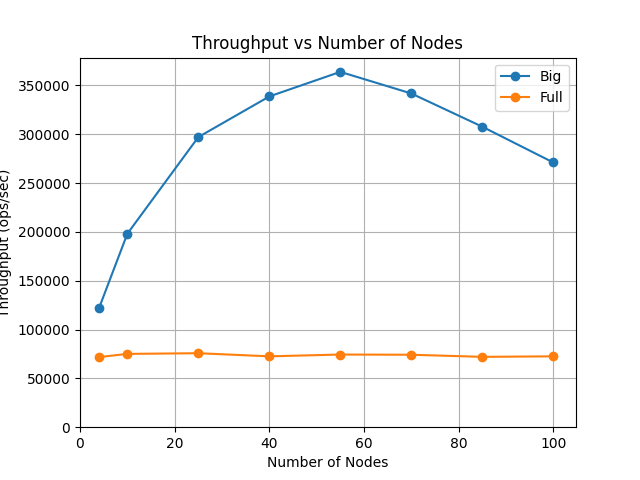
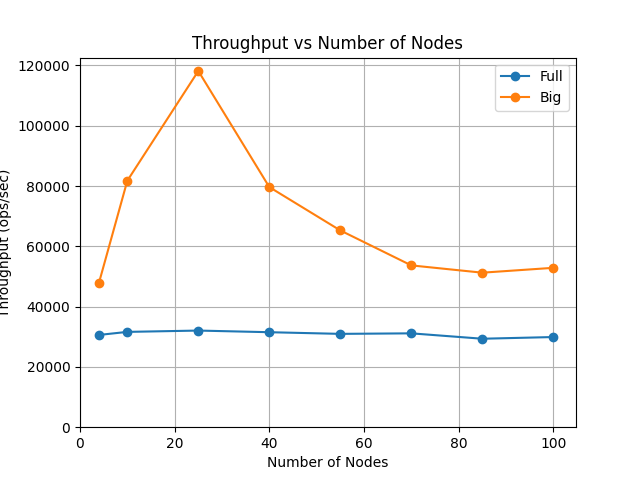
fix: tune performance

diff --git a/src/tasks/client.rs b/src/tasks/client.rs
@@ -327,57 +327,60 @@ impl ClientNodeTask {
         debug!("loading client node task");
         let scrape_state = Arc::new(Mutex::new(ClientScrapeState::now()));
 
-        let mut endpoint = Endpoint::client(([0, 0, 0, 0], 0).into())?;
         let mut transport_config = TransportConfig::default();
         transport_config.keep_alive_interval(Duration::from_secs(10).into());
         let mut config = client_config();
         config.transport_config(transport_config.into());
-        endpoint.set_default_client_config(config);
 
-        let mut tasks = JoinSet::new();
-        for _ in 0..schema.workload_config.num_concurrent {
-            let schema = schema.clone();
-            let scrape_state = scrape_state.clone();
-            let endpoint = endpoint.clone();
-            tasks.spawn(async move {
-                let client_channels = ClientChannels::new();
-                let client_worker_channels = ClientWorkerChannels::new();
-
-                let client_id = rand::random();
-
-                let network_connect = NetworkConnectTask::load(
-                    endpoint,
-                    client_channels.handle(),
-                    &schema,
-                    client_id,
-                )
-                .await?;
-                debug!("[{:08x}] network connect loaded", client_id);
-                let client = ClientTask::load(
-                    client_channels,
-                    network_connect.handle(),
-                    &schema,
-                    client_id,
-                )
-                .await?;
-                debug!("[{:08x}] client loaded", client_id);
-                let client_worker = ClientWorkerTask::load(
-                    client_worker_channels,
-                    client.channels.handle(),
-                    scrape_state.clone(),
-                    &schema,
-                )?;
-                debug!("[{:08x}] client worker loaded", client_id);
-                anyhow::Ok(WorkloadClientTask {
-                    network_connect,
-                    client,
-                    client_worker,
-                })
-            });
-        }
         let mut workload_clients = Vec::new();
-        while let Some(res) = tasks.join_next().await {
-            workload_clients.push(res??);
+        while workload_clients.len() < schema.workload_config.num_concurrent as usize {
+            let mut tasks = JoinSet::new();
+            for _ in
+                0..40.min(schema.workload_config.num_concurrent as usize - workload_clients.len())
+            {
+                let schema = schema.clone();
+                let scrape_state = scrape_state.clone();
+                let mut endpoint = Endpoint::client(([0, 0, 0, 0], 0).into())?;
+                endpoint.set_default_client_config(config.clone());
+                tasks.spawn(async move {
+                    let client_channels = ClientChannels::new();
+                    let client_worker_channels = ClientWorkerChannels::new();
+
+                    let client_id = rand::random();
+
+                    let network_connect = NetworkConnectTask::load(
+                        endpoint,
+                        client_channels.handle(),
+                        &schema,
+                        client_id,
+                    )
+                    .await?;
+                    debug!("[{:08x}] network connect loaded", client_id);
+                    let client = ClientTask::load(
+                        client_channels,
+                        network_connect.handle(),
+                        &schema,
+                        client_id,
+                    )
+                    .await?;
+                    debug!("[{:08x}] client loaded", client_id);
+                    let client_worker = ClientWorkerTask::load(
+                        client_worker_channels,
+                        client.channels.handle(),
+                        scrape_state.clone(),
+                        &schema,
+                    )?;
+                    debug!("[{:08x}] client worker loaded", client_id);
+                    anyhow::Ok(WorkloadClientTask {
+                        network_connect,
+                        client,
+                        client_worker,
+                    })
+                });
+            }
+            while let Some(res) = tasks.join_next().await {
+                workload_clients.push(res??);
+            }
         }
         debug!("client node task loaded");
 

diff --git a/src/execute.rs b/src/execute.rs
@@ -38,12 +38,26 @@ pub trait ExecuteContext {
     fn post(&mut self, updates: Vec<(Vec<u8>, Option<Vec<u8>>)>);
 }
 
+pub struct ExecuteConfig {
+    num_faulty_nodes: NodeIndex,
+}
+
+impl From<&crate::schema::ReplicaConfig> for ExecuteConfig {
+    fn from(config: &crate::schema::ReplicaConfig) -> Self {
+        Self {
+            num_faulty_nodes: config.num_faulty_nodes,
+        }
+    }
+}
+
 pub struct Execute<C> {
     pub context: C,
+    config: ExecuteConfig,
     index: NodeIndex,
 
     working: Option<WorkingState>,
     pending_blocks: VecDeque<(Vec<Block>, oneshot::Sender<()>)>,
+    executed_count: u64,
 
     metrics: ExecuteMetrics,
 }
@@ -61,13 +75,16 @@ struct ExecuteMetrics {
 }
 
 impl<C> Execute<C> {
-    pub fn new(context: C, index: NodeIndex) -> Self {
+    pub fn new(context: C, config: ExecuteConfig, index: NodeIndex) -> Self {
         Self {
             context,
+            config,
             index,
 
             working: None,
             pending_blocks: Default::default(),
+            executed_count: 0,
+
             metrics: ExecuteMetrics {
                 start: Instant::now(),
                 work_time: Duration::ZERO,
@@ -161,7 +178,14 @@ impl<C: ExecuteContext> Execute<C> {
                 res: bincode::encode_to_vec(&op, bincode::config::standard()).unwrap(),
                 node_index: self.index,
             };
-            self.context.send(client_id, reply);
+
+            if (self.executed_count..self.executed_count + self.config.num_faulty_nodes as u64 + 1)
+                .map(|i| (i % (self.config.num_faulty_nodes as u64 * 2 + 1)) as NodeIndex)
+                .any(|i| i == self.index)
+            {
+                self.context.send(client_id, reply);
+            }
+            self.executed_count += 1;
         }
         self.context.post(updates);
         let _ = working.tx_response.send(());

diff --git a/src/tasks/network/server.rs b/src/tasks/network/server.rs
@@ -70,18 +70,18 @@ impl NetworkAcceptTask {
             let submit = self.submit.clone();
             let network_outgoing = self.network_outgoing.clone();
             let conn = incoming.await?;
-            // tokio::spawn(async move {
-            let mut client_id = [0; size_of::<ClientId>()];
-            conn.accept_uni().await?.read_exact(&mut client_id).await?;
+            tokio::spawn(async move {
+                let mut client_id = [0; size_of::<ClientId>()];
+                conn.accept_uni().await?.read_exact(&mut client_id).await?;
 
-            let (tx_outgoing, rx_outgoing) = unbounded_channel();
-            tokio::spawn(Self::run_connection_incoming(conn.clone(), submit.clone()));
-            tokio::spawn(Self::run_connection_outgoing(conn, rx_outgoing));
-            let _ = network_outgoing
-                .new_connection(ClientId::from_le_bytes(client_id), tx_outgoing)
-                .await;
-            //     anyhow::Ok(())
-            // });
+                let (tx_outgoing, rx_outgoing) = unbounded_channel();
+                tokio::spawn(Self::run_connection_incoming(conn.clone(), submit.clone()));
+                tokio::spawn(Self::run_connection_outgoing(conn, rx_outgoing));
+                let _ = network_outgoing
+                    .new_connection(ClientId::from_le_bytes(client_id), tx_outgoing)
+                    .await;
+                anyhow::Ok(())
+            });
         }
         Ok(())
     }

diff --git a/control/src/bin/setup.rs b/control/src/bin/setup.rs
@@ -10,7 +10,7 @@ async fn main() -> anyhow::Result<()> {
         tasks.spawn(async move { setup_storage(&instance).await });
     }
     for instance in cluster.servers.into_iter().chain(cluster.clients) {
-        tasks.spawn(async move { setup_deps(&instance).await });
+        tasks.spawn(async move { setup_common(&instance).await });
     }
     while let Some(result) = tasks.join_next().await {
         result??;
@@ -52,10 +52,18 @@ async fn setup_storage(instance: &Instance) -> anyhow::Result<()> {
     Ok(())
 }
 
-async fn setup_deps(instance: &Instance) -> anyhow::Result<()> {
+async fn setup_common(instance: &Instance) -> anyhow::Result<()> {
     let status = instance
         .ssh()
-        .arg("sudo apt-get -qq update && sudo apt-get -qq install -y liburing2")
+        .arg(
+            [
+                "sudo apt-get -qq update",
+                "sudo apt-get -qq install -y liburing2",
+                "sudo sysctl -w net.core.rmem_max=7500000",
+                "sudo sysctl -w net.core.wmem_max=7500000",
+            ]
+            .join(" && "),
+        )
         .status()
         .await?;
     anyhow::ensure!(status.success());

diff --git a/src/tasks/execute.rs b/src/tasks/execute.rs
@@ -91,7 +91,7 @@ impl ExecuteTask {
         schema: &schema::ReplicaTask,
     ) -> anyhow::Result<Self> {
         let context = ExecuteTaskContext::new(channels.handle(), storage, network_outgoing);
-        let state = Execute::new(context, schema.node_index);
+        let state = Execute::new(context, (&schema.config).into(), schema.node_index);
         Ok(Self::new(channels, state))
     }
 

diff --git a/control/src/bin/nodes-tput.rs b/control/src/bin/nodes-tput.rs
@@ -139,10 +139,7 @@ async fn run_workload(
             num_faulty_nodes,
         },
         workload_config: big_schema::WorkloadConfig {
-            num_concurrent: match storage {
-                Storage::Full => 5_000,
-                Storage::Big => 10_000,
-            },
+            num_concurrent: 800,
             num_keys: NUM_KEYS,
             read_ratio: READ_RATIO,
         },

diff --git a/control/src/bin/live-report.rs b/control/src/bin/live-report.rs
@@ -104,7 +104,7 @@ async fn run_workload(
     start_all(client_instances, control_client.clone()).await?;
 
     let mut next_scrape = Instant::now() + Duration::from_secs(1);
-    for i in 0..10 {
+    for i in 0..20 {
         sleep_until(next_scrape).await;
         println!("scrape clients round {}", i + 1);
         scrape_all(client_instances, control_client.clone()).await?;
